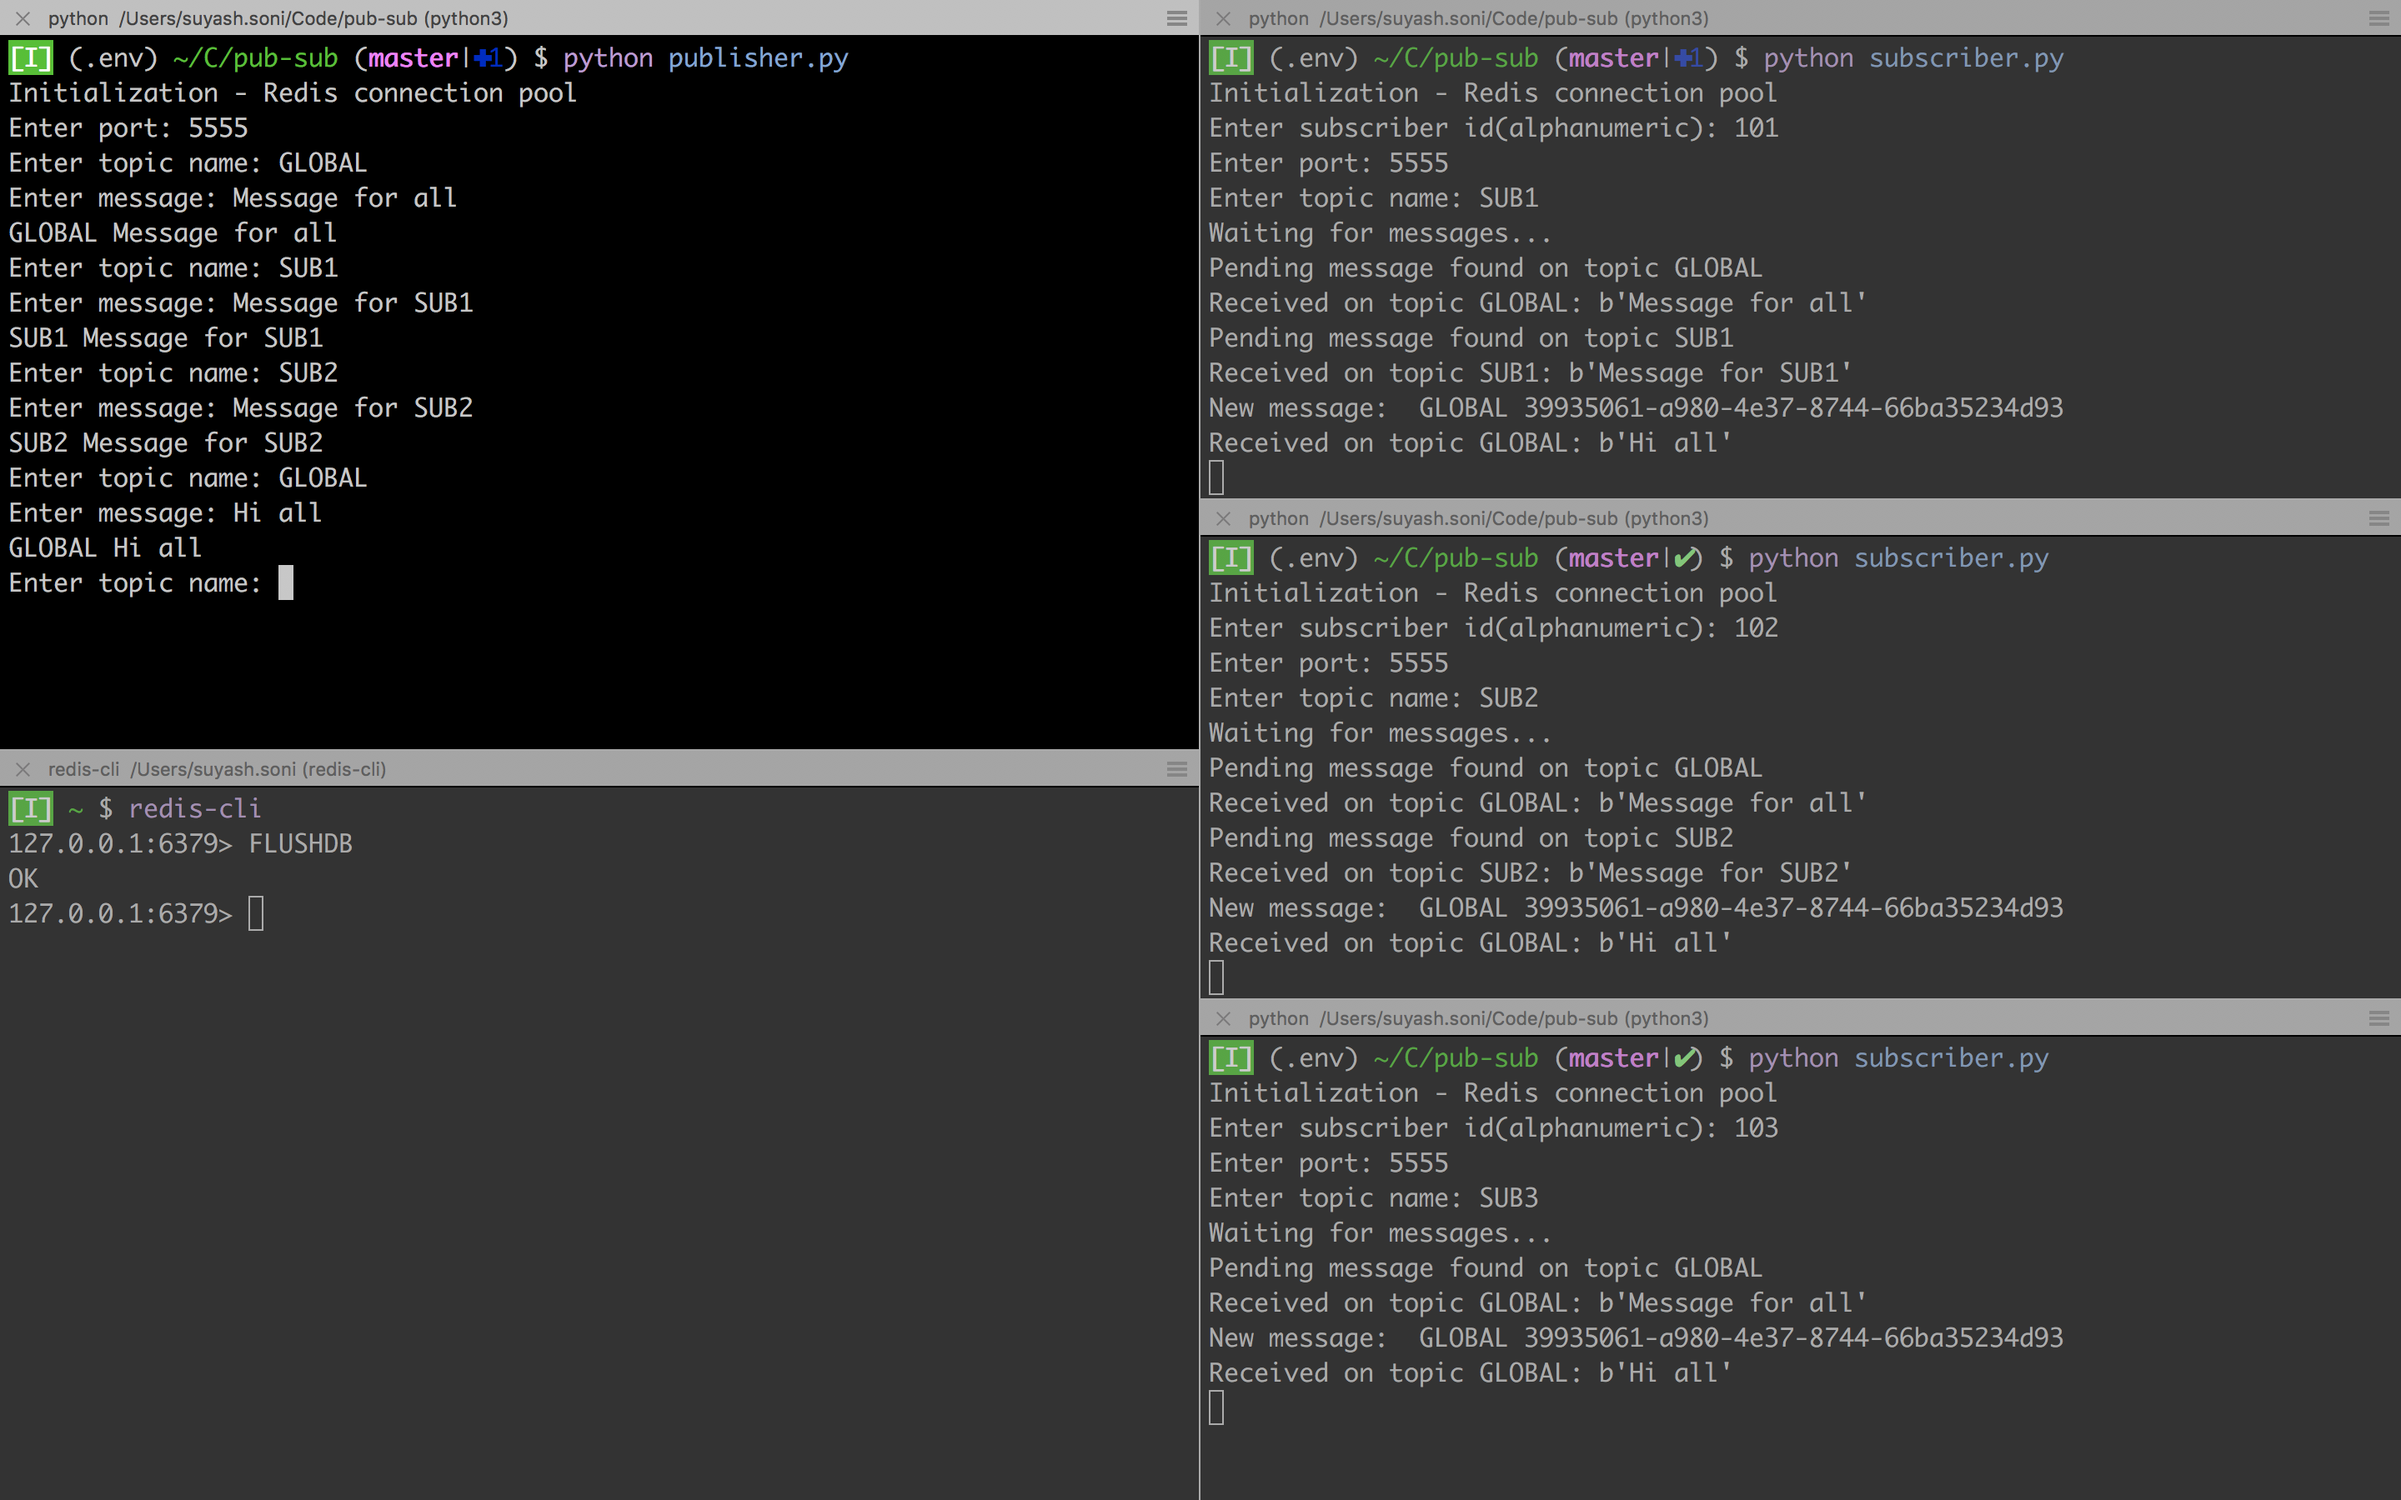
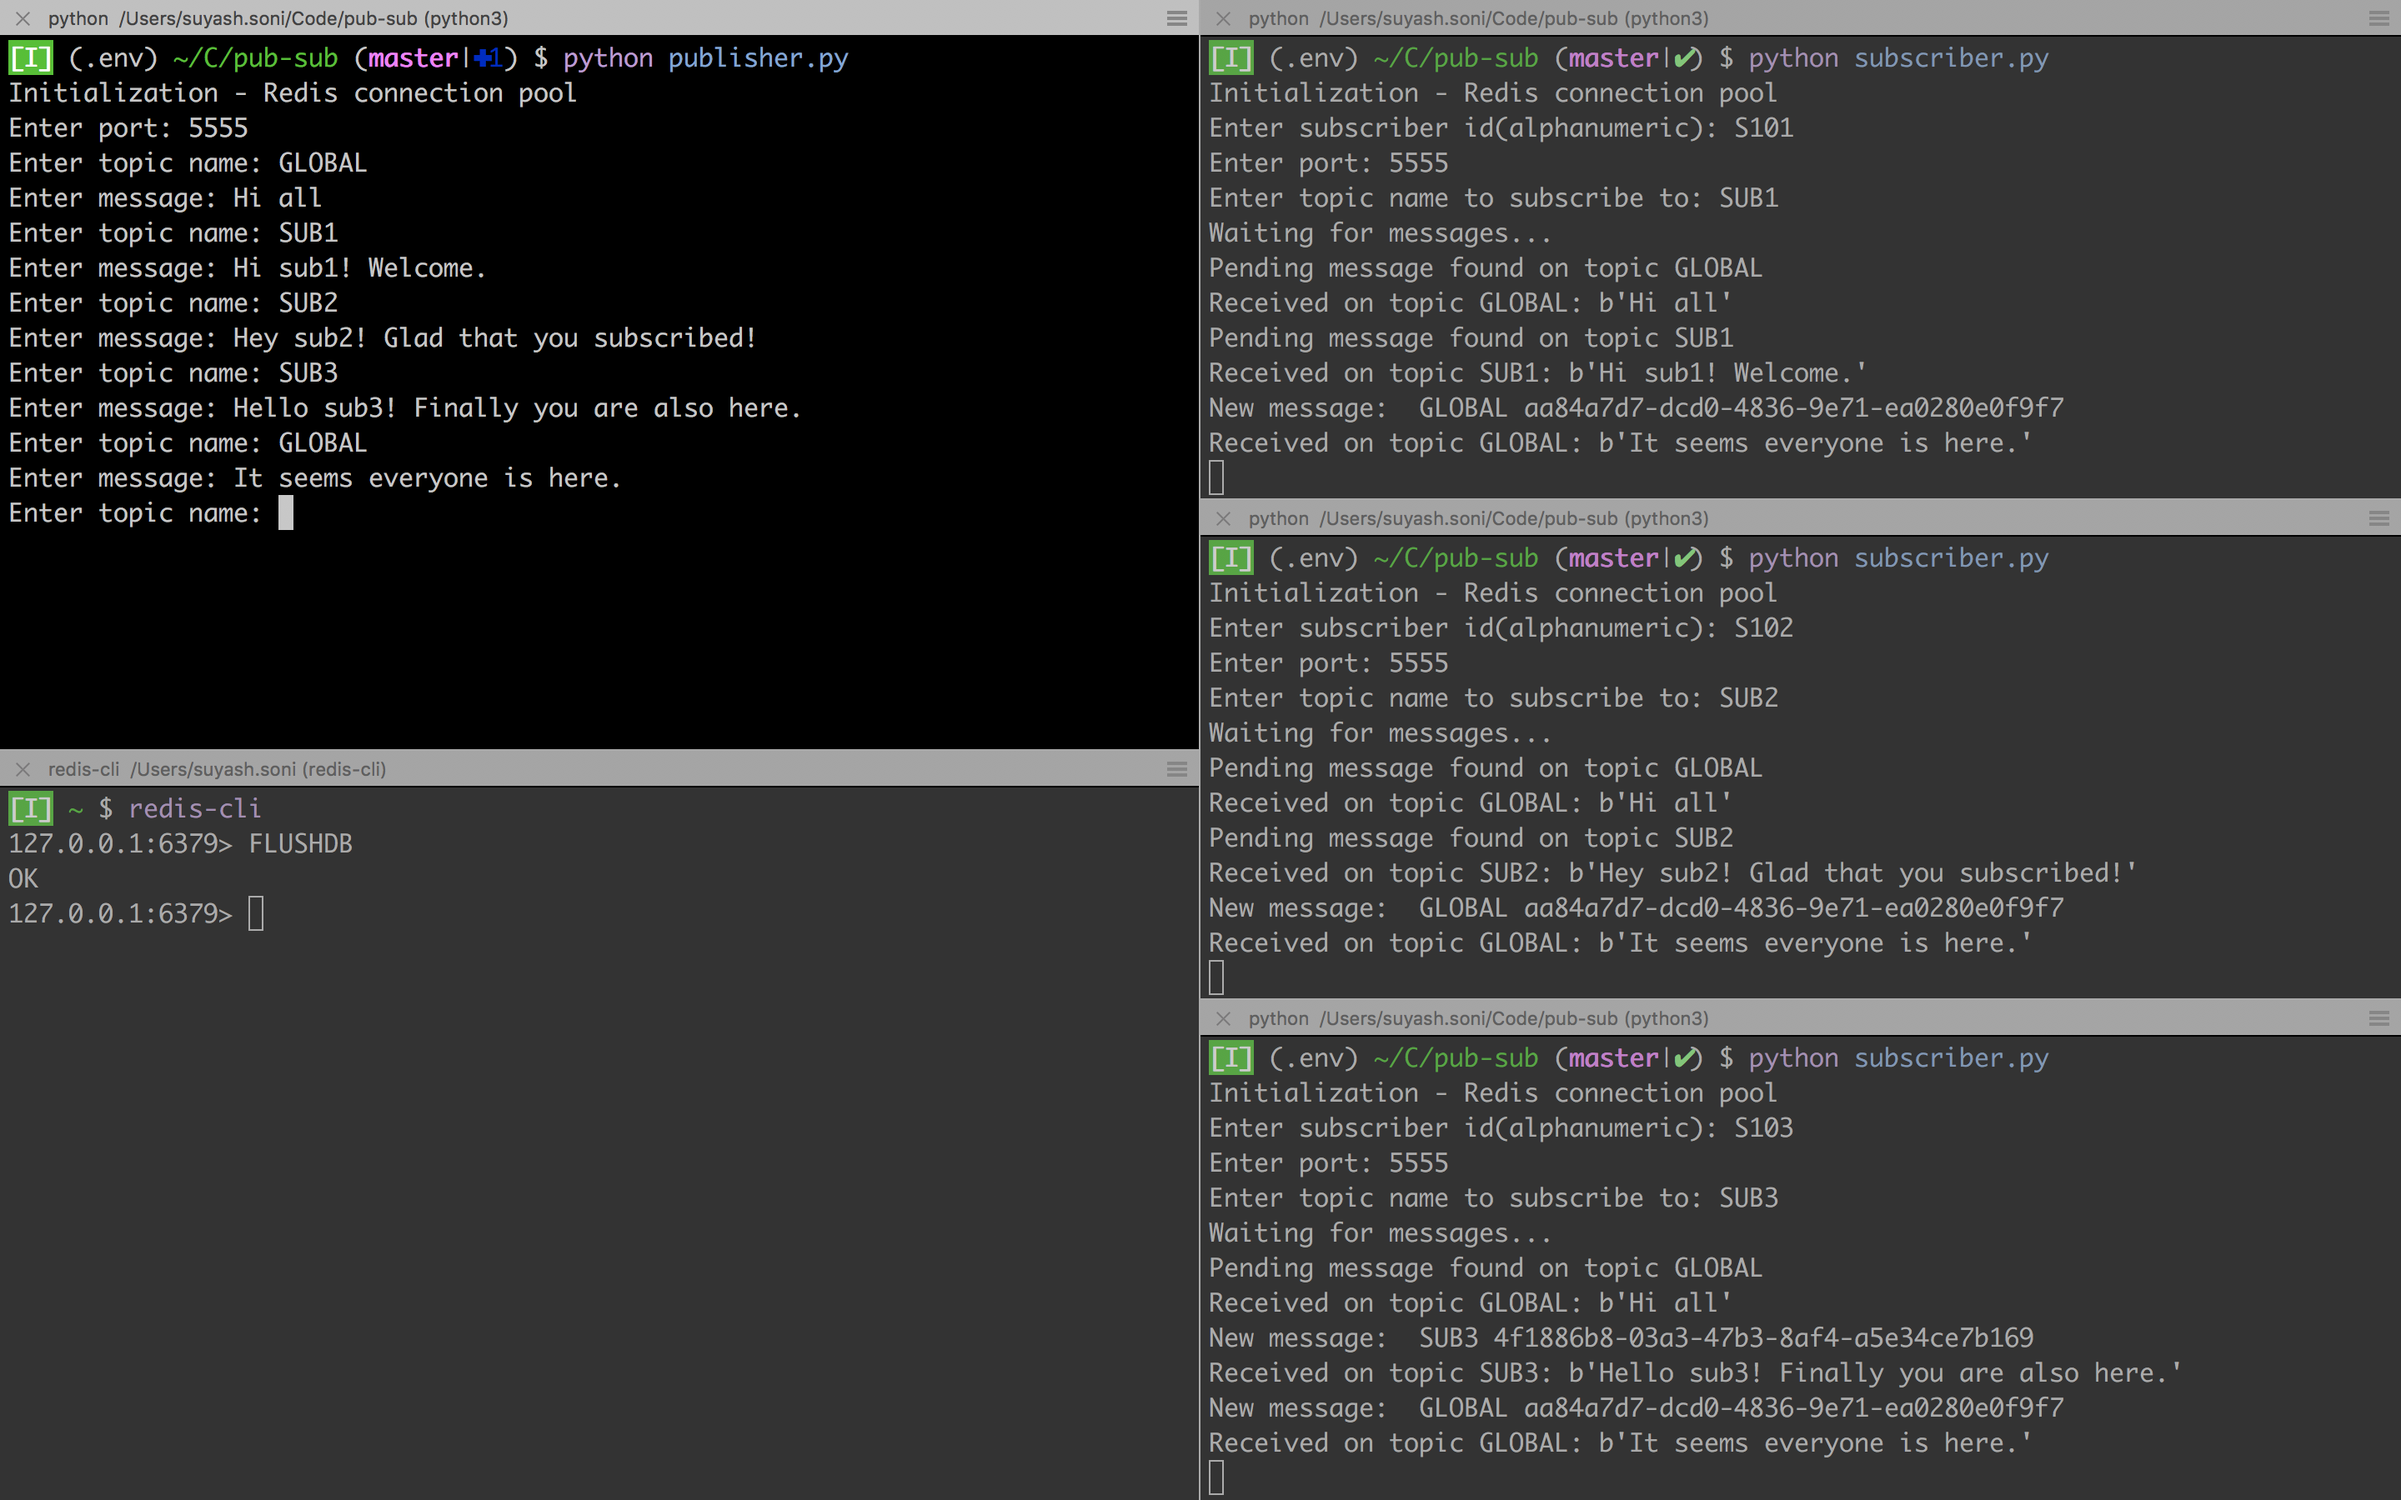
Updated settings

diff --git a/subscriber.py b/subscriber.py
@@ -50,5 +50,5 @@ def subscribe(port, topic):
 if __name__ == "__main__":
     sub_id = input("Enter subscriber id(alphanumeric): ")
     port = int(input("Enter port: "))
-    topic = input("Enter topic name: ")
+    topic = input("Enter topic name to subscribe to: ")
     subscribe(port, topic)
